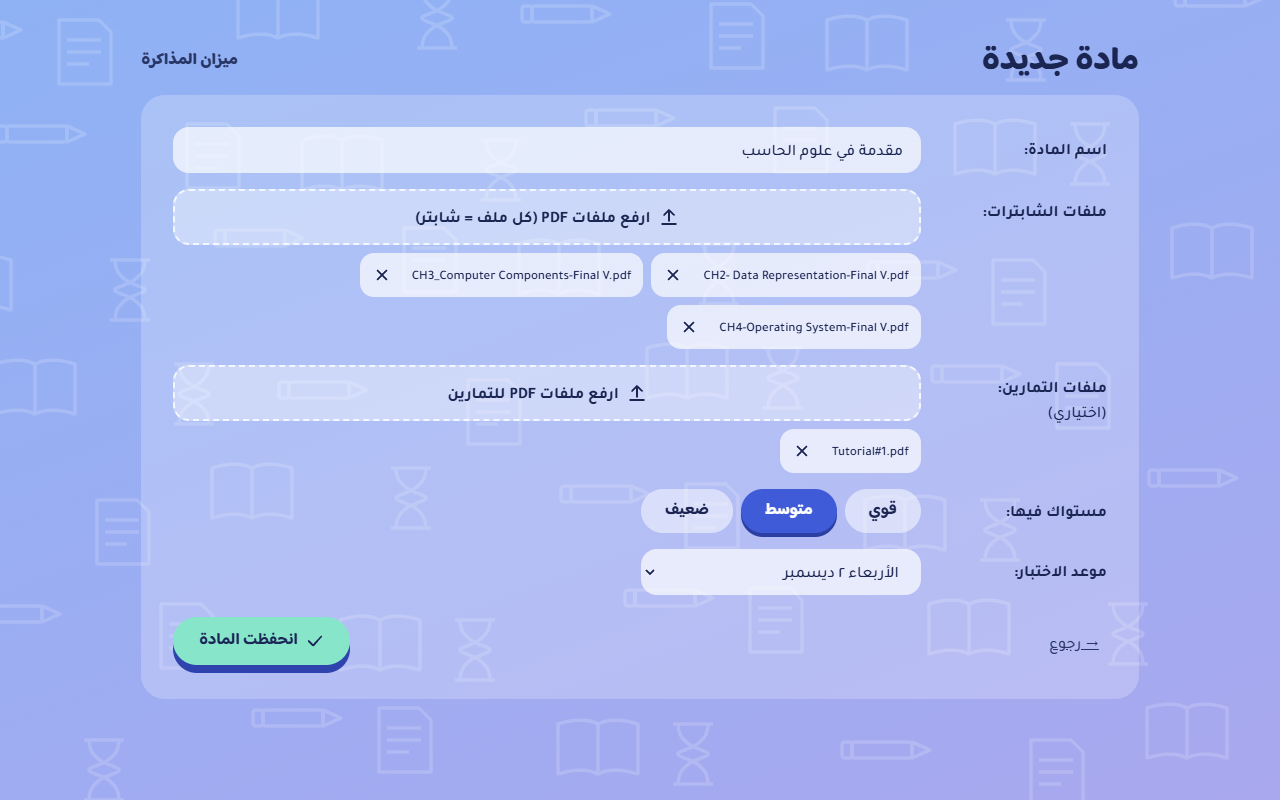
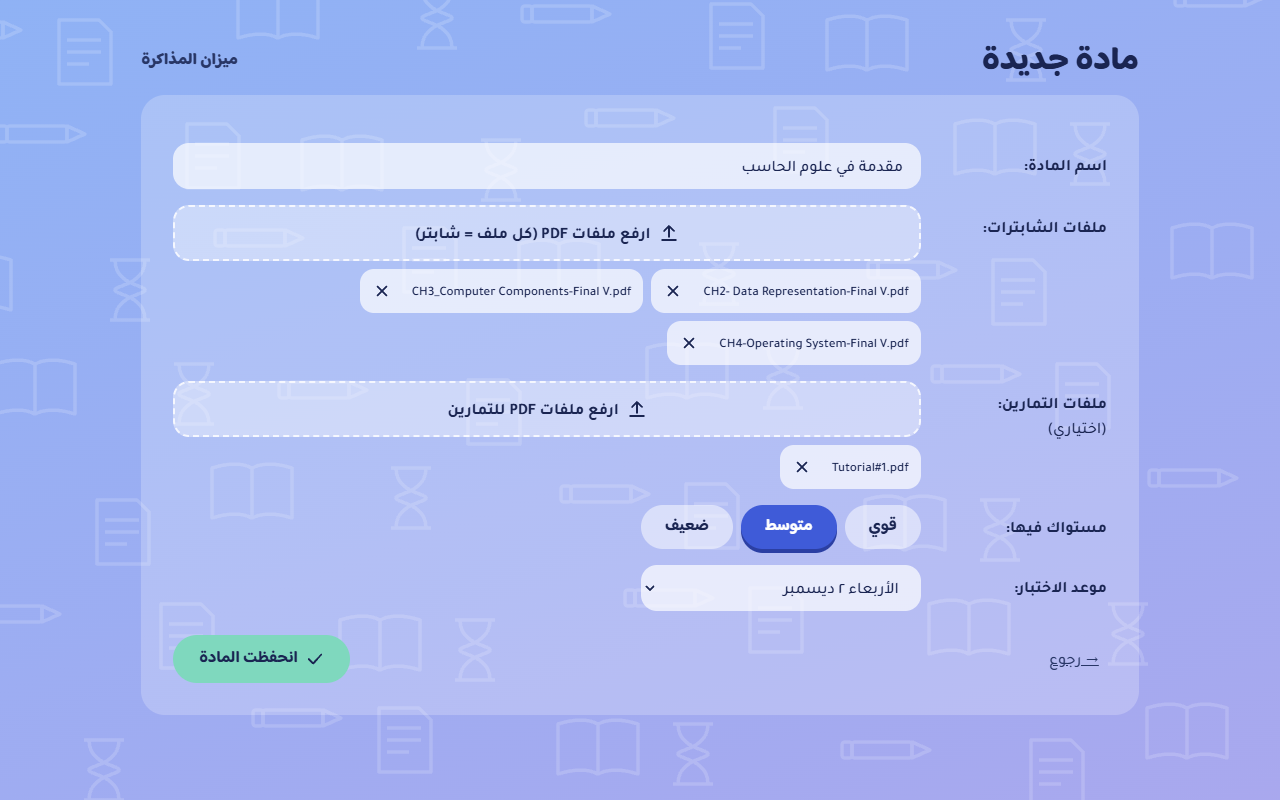
Version 3.2: Done button keeps no shadow on hover
- .btn--done stays mint with no shadow or movement while hovered or pressed
- design/shots/02-saved-1280.png retaken (after the card spacing fix)

diff --git a/web/src/components/components.css b/web/src/components/components.css
@@ -70,10 +70,15 @@
 .btn--loading {
   cursor: progress;
 }
-.btn--done {
+/* done: mint, no shadow, and it stays still under the mouse (the click that saved is still hovering it). */
+.btn.btn--done,
+.btn.btn--done:hover,
+.btn.btn--done:active {
   background: var(--mint);
   color: var(--ink);
   box-shadow: none;
+  transform: none;
+  filter: none;
 }
 .btn:disabled {
   background: var(--disabled-bg);
